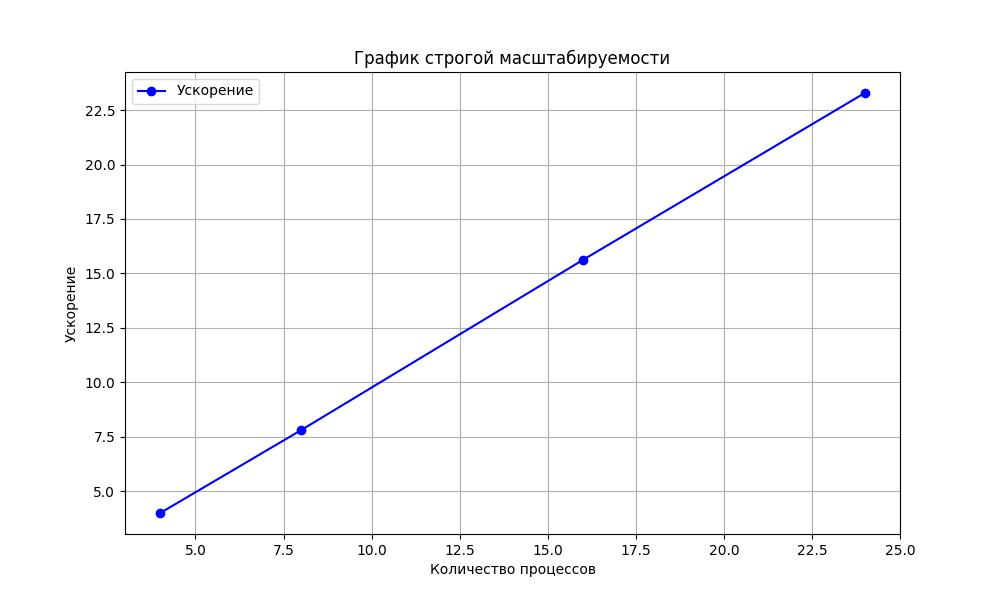
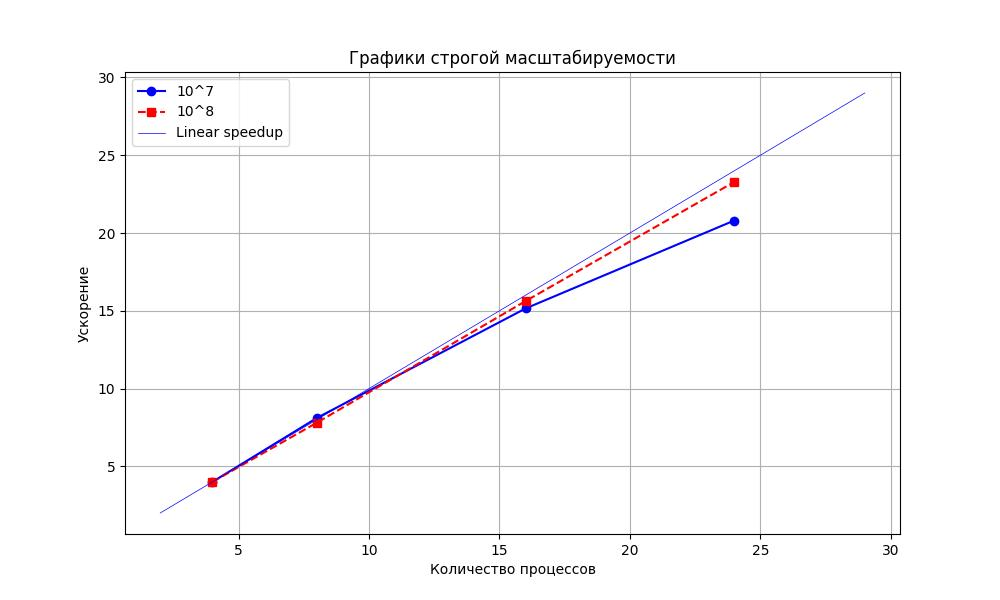
Подготовка для замеров почти завершена

diff --git a/autumn/3lab/28000.c b/autumn/3lab/28000.c
@@ -1,0 +1,117 @@
+#include <inttypes.h>
+#include <math.h>
+#include <mpi.h>
+#include <stdio.h>
+#include <stdlib.h>
+
+enum { m = 28000, n = 28000 };
+
+void* xmalloc(size_t n)
+{
+    void* ptr = malloc(n);
+
+    if (ptr == NULL) {
+        fprintf(stderr, "Memory allocation error\n");
+        exit(1);
+    }
+
+    return ptr;
+}
+
+void get_chunk(int a, int b, int commsize, int rank, int* lb, int* ub)
+{
+    int n = b - a + 1;
+    int q = n / commsize;
+    if (n % commsize)
+        q++;
+    int r = commsize * q - n;
+    int chunk = q;
+    if (rank >= commsize - r)
+        chunk = q - 1;
+    *lb = a;
+    if (rank > 0) {
+        if (rank <= commsize - r)
+            *lb += q * rank;
+        else
+            *lb += q * (commsize - r) + (q - 1) * (rank - (commsize - r));
+    }
+    *ub = *lb + chunk - 1;
+}
+
+void dgemv(double* a, double* b, double* c, int m, int n)
+{
+    int commsize, rank;
+    MPI_Comm_size(MPI_COMM_WORLD, &commsize);
+    MPI_Comm_rank(MPI_COMM_WORLD, &rank);
+    int lb, ub;
+    get_chunk(0, m - 1, commsize, rank, &lb, &ub);
+    int nrows = ub - lb + 1;
+    for (int i = 0; i < nrows; i++) {
+        c[lb + i] = 0.0;
+        for (int j = 0; j < n; j++)
+            c[lb + i] += a[i * n + j] * b[j];
+    }
+
+    if (rank == 0) {
+        int* displs = malloc(sizeof(*displs) * commsize);
+        int* rcounts = malloc(sizeof(*rcounts) * commsize);
+        for (int i = 0; i < commsize; i++) {
+            int l, u;
+            get_chunk(0, m - 1, commsize, i, &l, &u);
+            rcounts[i] = u - l + 1;
+            displs[i] = (i > 0) ? displs[i - 1] + rcounts[i - 1] : 0;
+        }
+        MPI_Gatherv(MPI_IN_PLACE, ub - lb + 1, MPI_DOUBLE, c, rcounts, displs, MPI_DOUBLE, 0, MPI_COMM_WORLD);
+    } else {
+        MPI_Gatherv(&c[lb], ub - lb + 1, MPI_DOUBLE, NULL, NULL, NULL, MPI_DOUBLE, 0, MPI_COMM_WORLD);
+    }
+}
+
+int main(int argc, char** argv)
+{
+    FILE* file;
+
+    int commsize, rank;
+    MPI_Init(&argc, &argv);
+    MPI_Comm_size(MPI_COMM_WORLD, &commsize);
+    MPI_Comm_rank(MPI_COMM_WORLD, &rank);
+
+    int lb, ub;
+    get_chunk(0, m - 1, commsize, rank, &lb, &ub);
+    int nrows = ub - lb + 1;
+    double* a = xmalloc(sizeof(*a) * nrows * n);
+    double* b = xmalloc(sizeof(*b) * n);
+    double* c = xmalloc(sizeof(*c) * m);
+
+    for (int i = 0; i < nrows; i++) {
+        for (int j = 0; j < n; j++)
+            a[i * n + j] = lb + i + 1;
+    }
+    for (int j = 0; j < n; j++)
+        b[j] = j + 1;
+    double t = MPI_Wtime();
+    dgemv(a, b, c, m, n);
+    t = MPI_Wtime() - t;
+
+    double tmax = 0;
+
+    MPI_Reduce(&t, &tmax, 1, MPI_DOUBLE, MPI_MAX, 0, MPI_COMM_WORLD);
+
+    if (rank == 0) {
+        for (int i = 0; i < m; i++) {
+            double r = (i + 1) * (n / 2.0 + pow(n, 2) / 2.0);
+            if (fabs(c[i] - r) > 1E-6) {
+                fprintf(stderr, "Validation failed: elem %d = %f (real value %f)\n", i, c[i], r);
+                break;
+            }
+        }
+        file = fopen("28000.txt", "a");
+        fprintf(file, "%f\t%d\n", tmax, commsize);
+        fclose(file);
+    }
+    free(a);
+    free(b);
+    free(c);
+    MPI_Finalize();
+    return 0;
+}

diff --git a/autumn/3lab/45000.c b/autumn/3lab/45000.c
@@ -1,0 +1,117 @@
+#include <inttypes.h>
+#include <math.h>
+#include <mpi.h>
+#include <stdio.h>
+#include <stdlib.h>
+
+enum { m = 45000, n = 45000 };
+
+void* xmalloc(size_t n)
+{
+    void* ptr = malloc(n);
+
+    if (ptr == NULL) {
+        fprintf(stderr, "Memory allocation error\n");
+        exit(1);
+    }
+
+    return ptr;
+}
+
+void get_chunk(int a, int b, int commsize, int rank, int* lb, int* ub)
+{
+    int n = b - a + 1;
+    int q = n / commsize;
+    if (n % commsize)
+        q++;
+    int r = commsize * q - n;
+    int chunk = q;
+    if (rank >= commsize - r)
+        chunk = q - 1;
+    *lb = a;
+    if (rank > 0) {
+        if (rank <= commsize - r)
+            *lb += q * rank;
+        else
+            *lb += q * (commsize - r) + (q - 1) * (rank - (commsize - r));
+    }
+    *ub = *lb + chunk - 1;
+}
+
+void dgemv(double* a, double* b, double* c, int m, int n)
+{
+    int commsize, rank;
+    MPI_Comm_size(MPI_COMM_WORLD, &commsize);
+    MPI_Comm_rank(MPI_COMM_WORLD, &rank);
+    int lb, ub;
+    get_chunk(0, m - 1, commsize, rank, &lb, &ub);
+    int nrows = ub - lb + 1;
+    for (int i = 0; i < nrows; i++) {
+        c[lb + i] = 0.0;
+        for (int j = 0; j < n; j++)
+            c[lb + i] += a[i * n + j] * b[j];
+    }
+
+    if (rank == 0) {
+        int* displs = malloc(sizeof(*displs) * commsize);
+        int* rcounts = malloc(sizeof(*rcounts) * commsize);
+        for (int i = 0; i < commsize; i++) {
+            int l, u;
+            get_chunk(0, m - 1, commsize, i, &l, &u);
+            rcounts[i] = u - l + 1;
+            displs[i] = (i > 0) ? displs[i - 1] + rcounts[i - 1] : 0;
+        }
+        MPI_Gatherv(MPI_IN_PLACE, ub - lb + 1, MPI_DOUBLE, c, rcounts, displs, MPI_DOUBLE, 0, MPI_COMM_WORLD);
+    } else {
+        MPI_Gatherv(&c[lb], ub - lb + 1, MPI_DOUBLE, NULL, NULL, NULL, MPI_DOUBLE, 0, MPI_COMM_WORLD);
+    }
+}
+
+int main(int argc, char** argv)
+{
+    FILE* file;
+
+    int commsize, rank;
+    MPI_Init(&argc, &argv);
+    MPI_Comm_size(MPI_COMM_WORLD, &commsize);
+    MPI_Comm_rank(MPI_COMM_WORLD, &rank);
+
+    int lb, ub;
+    get_chunk(0, m - 1, commsize, rank, &lb, &ub);
+    int nrows = ub - lb + 1;
+    double* a = xmalloc(sizeof(*a) * nrows * n);
+    double* b = xmalloc(sizeof(*b) * n);
+    double* c = xmalloc(sizeof(*c) * m);
+
+    for (int i = 0; i < nrows; i++) {
+        for (int j = 0; j < n; j++)
+            a[i * n + j] = lb + i + 1;
+    }
+    for (int j = 0; j < n; j++)
+        b[j] = j + 1;
+    double t = MPI_Wtime();
+    dgemv(a, b, c, m, n);
+    t = MPI_Wtime() - t;
+
+    double tmax = 0;
+
+    MPI_Reduce(&t, &tmax, 1, MPI_DOUBLE, MPI_MAX, 0, MPI_COMM_WORLD);
+
+    if (rank == 0) {
+        for (int i = 0; i < m; i++) {
+            double r = (i + 1) * (n / 2.0 + pow(n, 2) / 2.0);
+            if (fabs(c[i] - r) > 1E-6) {
+                fprintf(stderr, "Validation failed: elem %d = %f (real value %f)\n", i, c[i], r);
+                break;
+            }
+        }
+        file = fopen("45000.txt", "a");
+        fprintf(file, "%f\t%d\n", tmax, commsize);
+        fclose(file);
+    }
+    free(a);
+    free(b);
+    free(c);
+    MPI_Finalize();
+    return 0;
+}

diff --git a/autumn/2lab/graph2.py b/autumn/2lab/graph2.py
@@ -1,0 +1,56 @@
+import matplotlib.pyplot as plt
+
+# Считываем имя входного и выходного файлов от пользователя
+# input_file = input("Введите имя файла с данными: ")
+# output_file = input("Введите имя выходного файла для сохранения графика: ")
+
+input_file = "monte_result.txt"
+output_file = "graph2.jpg"
+
+
+# Чтение данных из файла
+processes = []
+times1 = []
+times2 = []
+
+with open(input_file, 'r') as file:
+    for i, line in enumerate(file):
+        time, proc = map(float, line.split())
+        if i < 4:  # Первые 4 строки для первого графика
+            times1.append(time)
+            processes.append(int(proc))  # Процессы достаточно сохранить только один раз
+        else:  # Последующие строки для второго графика
+            times2.append(time)
+
+# Вычисление ускорения для обоих наборов данных
+initial_time1 = times1[0]
+initial_time2 = times2[0]
+
+speedup1 = [initial_time1 / t * 4 for t in times1]
+speedup2 = [initial_time2 / t * 4 for t in times2]
+
+# Построение графиков
+plt.figure(figsize=(10, 6))
+
+# Первый график
+plt.plot(processes, speedup1, marker='o', linestyle='-', color='b', label="10^7")
+
+# Второй график
+plt.plot(processes, speedup2, marker='s', linestyle='--', color='r', label="10^8")
+
+plt.plot(range(2,30),range(2,30),'-',c="blue",linewidth=0.5,label="Linear speedup")
+
+
+# Подписи осей
+plt.xlabel('Количество процессов')
+plt.ylabel('Ускорение')
+plt.title('Графики строгой масштабируемости')
+
+# Добавление сетки и легенды
+plt.grid(True)
+plt.legend()
+
+# Сохранение графика в файл
+plt.savefig(output_file)
+
+print(f"График сохранён в файл {output_file}")

diff --git a/autumn/3lab/28000.py b/autumn/3lab/28000.py
@@ -1,0 +1,35 @@
+import matplotlib.pyplot as plt
+import numpy as np
+
+input_file = "28000.txt"
+output_file = "28000.jpg"
+
+processes = []
+times = []
+
+with open(input_file, 'r') as file:
+    for line in file:
+        if line == "\n":
+            break
+
+        time, proc = map(float, line.split())
+        times.append(time)
+        processes.append(int(proc))
+
+initial_time = times[0]
+speedup = [initial_time / t for t in times]
+
+plt.figure(figsize=(10, 6))
+plt.plot(processes, speedup, marker='o', linestyle='-', color='b', label="Ускорение")
+plt.plot(range(2,30),range(2,30),'-',c="blue",linewidth=0.5,label="Linear speedup")
+
+plt.xlabel('Количество процессов')
+plt.ylabel('Ускорение')
+plt.title('График строгой масштабируемости')
+
+plt.grid(True)
+plt.legend()
+
+plt.savefig(output_file)
+
+print(f"График сохранён в файл {output_file}")
